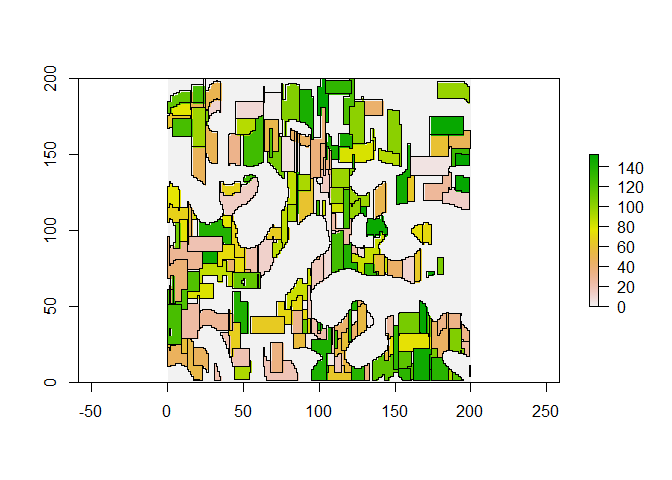
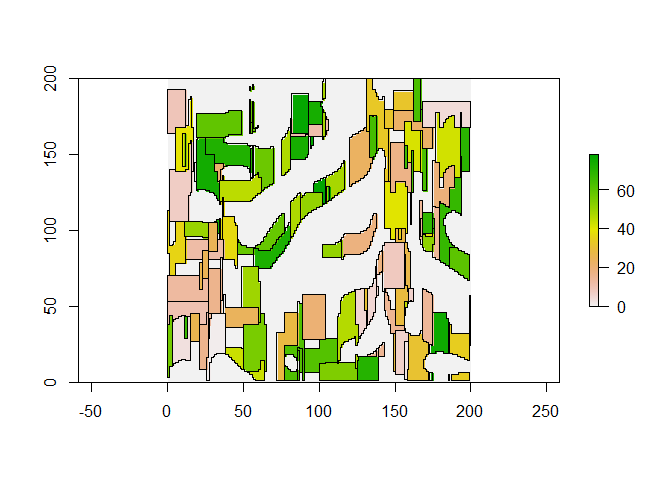
more readme updates

Changed region(s): [[0.25, 0.1562, 0.7188, 0.8125], [0.9062, 0.3438, 0.9688, 0.625]]

diff --git a/README.md b/README.md
@@ -44,7 +44,7 @@ r<-generate_perlin_noise(200,200,1,2,3,0.01,TRUE, "land_percentage", percetange 
 output<-establish_by_place_conquer(potential_space= r,
                          cell_size=1,
                          includsion_value = 1,
-                         mean_field_size = 200,
+                         mean_field_size = 400,
                          sd_field_size = 100,
                          distribution = "norm",
                          mean_shape_index = 3,
